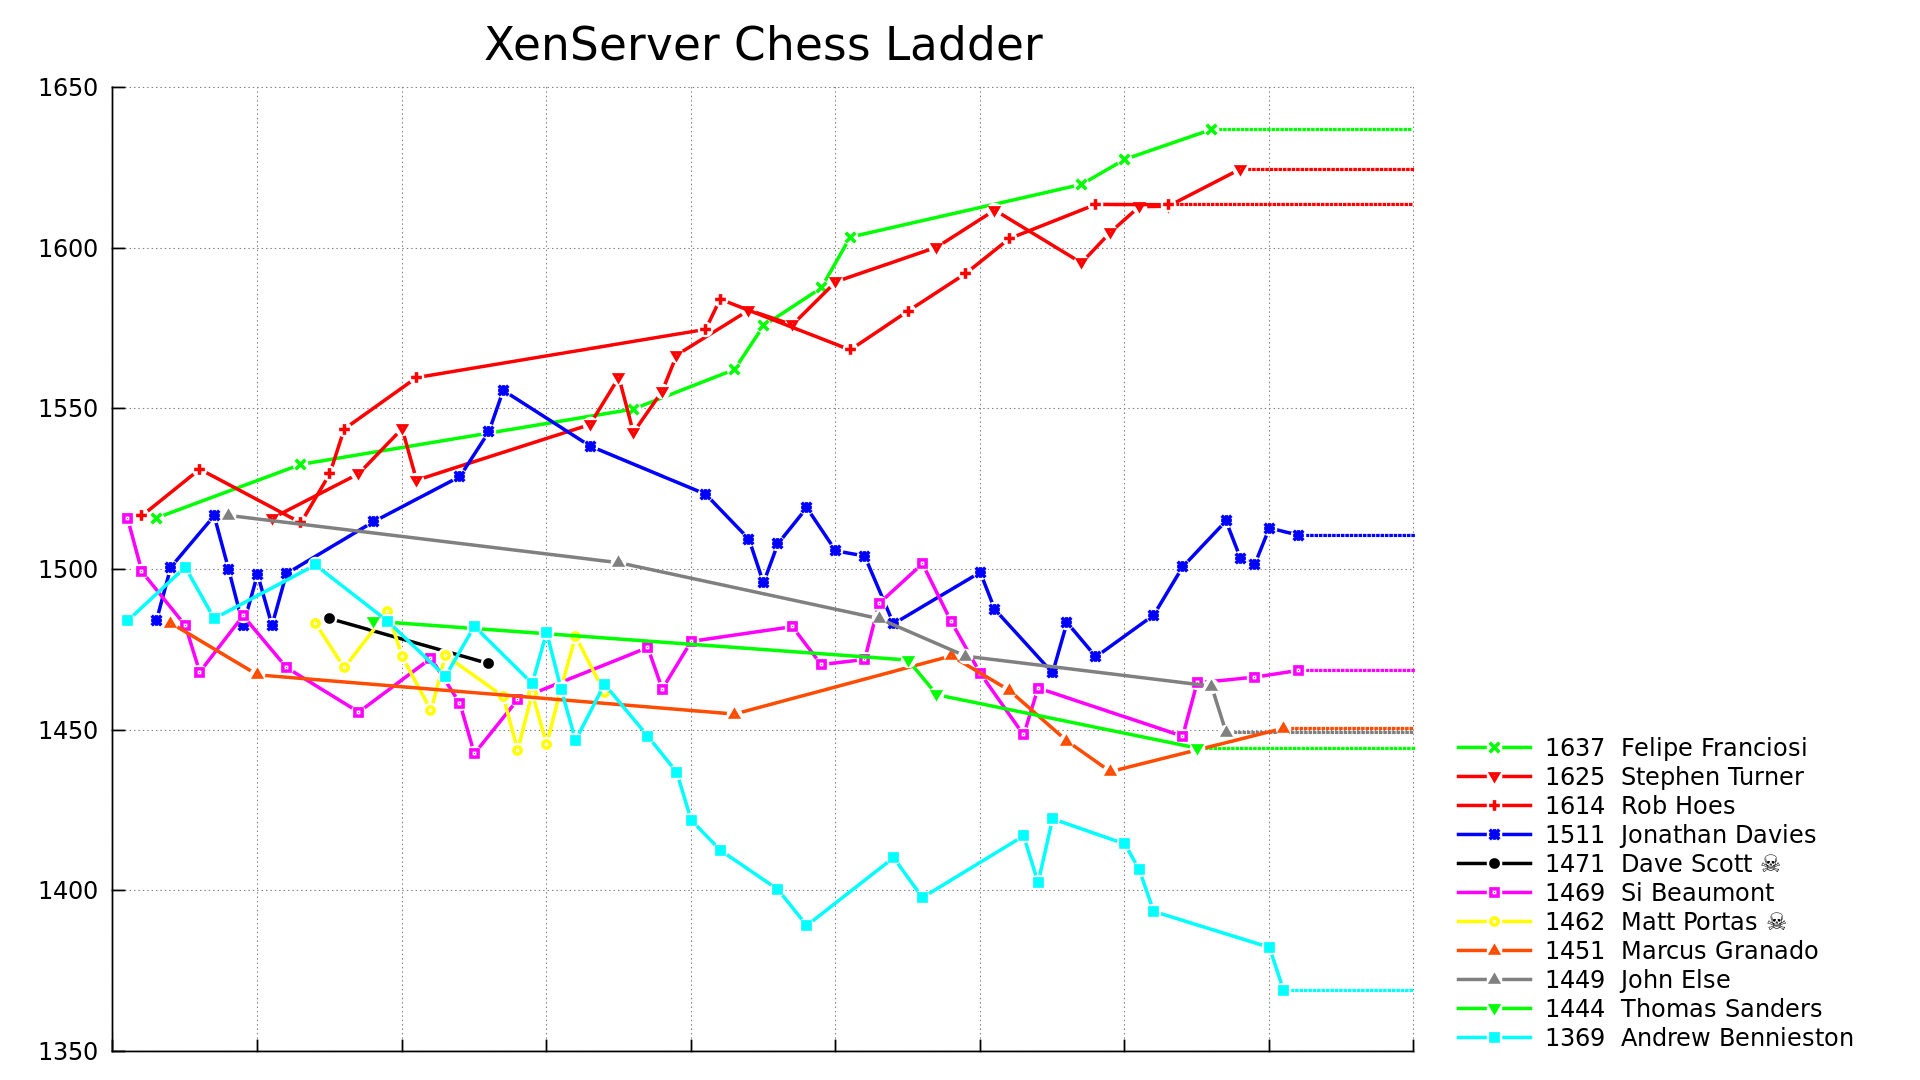
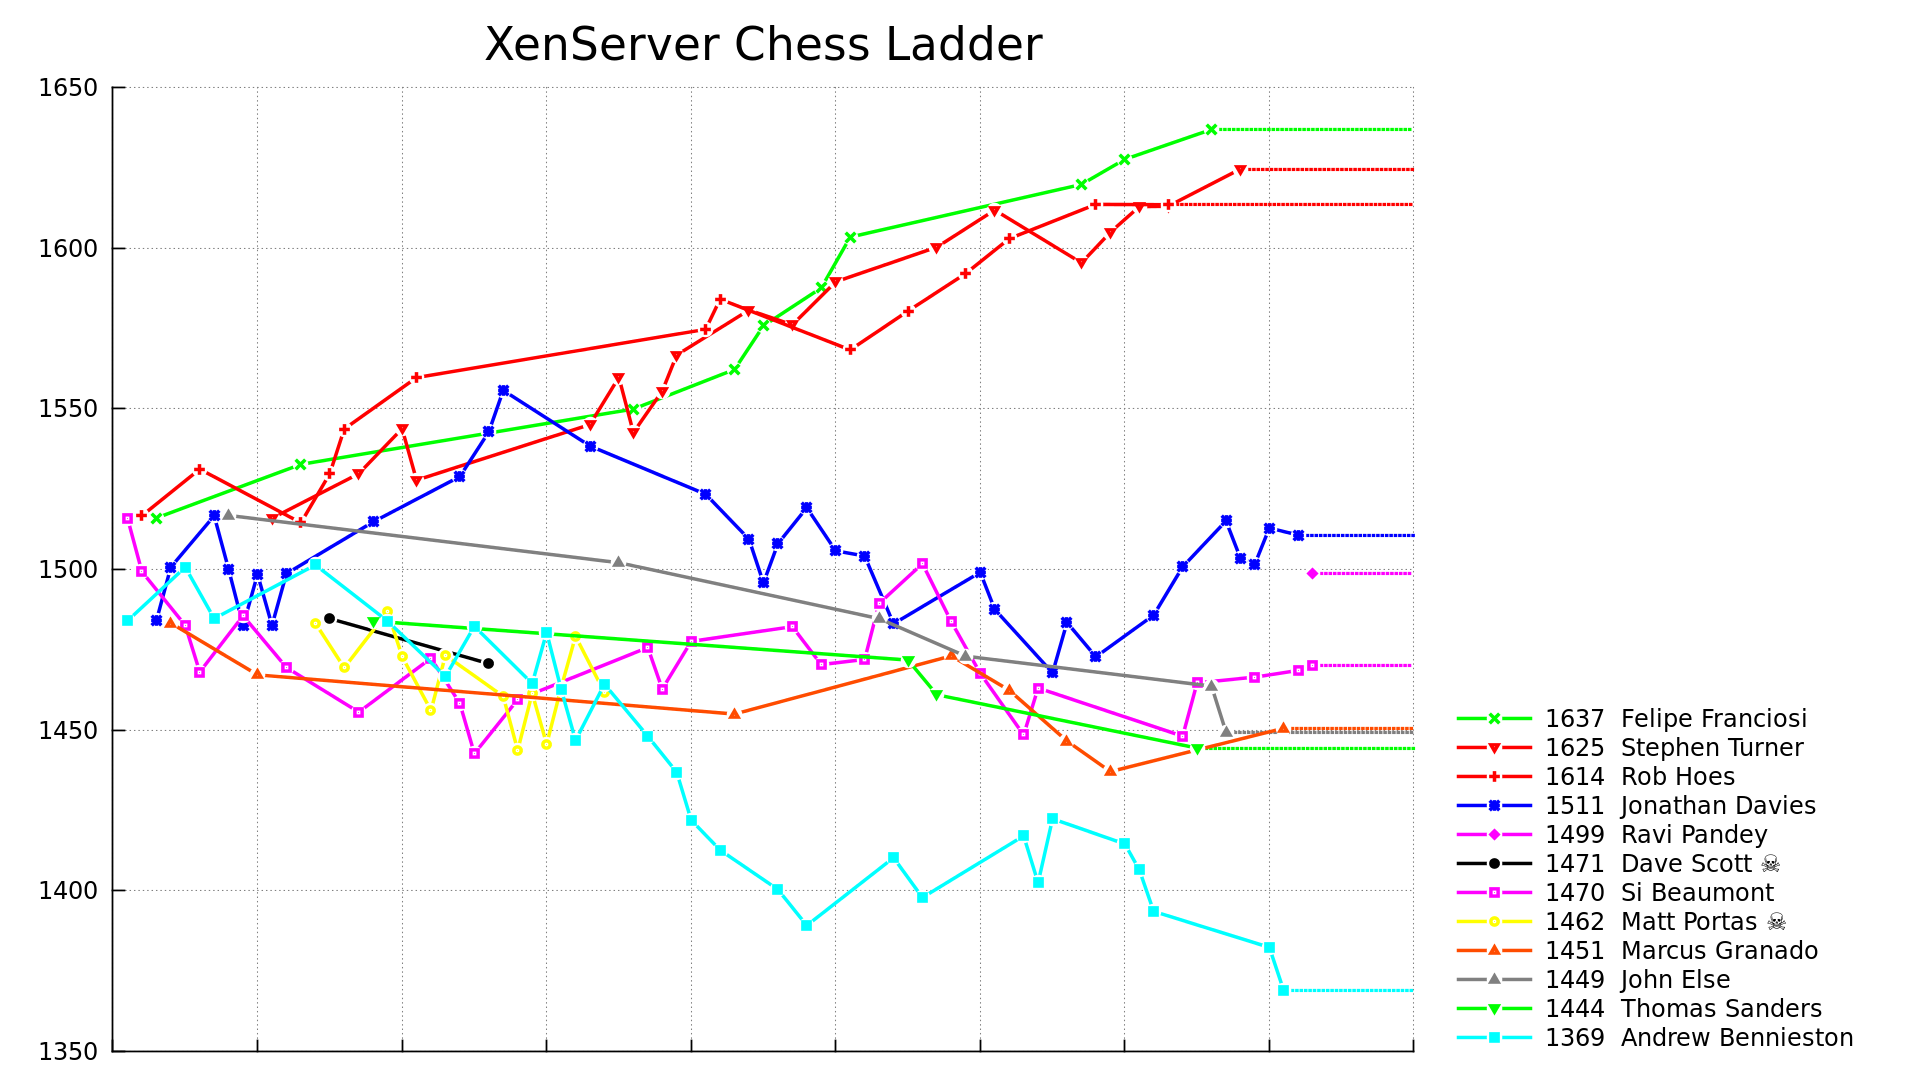
Travis build 164 pushed to gh-pages

diff --git a/index.md b/index.md
@@ -7,10 +7,10 @@ layout: default
      2.  Stephen Turner                     1625  (15 / 19)
      3.  Rob Hoes                           1614  (11.5 / 14)
      4.  Jonathan Davies                    1511  (17.5 / 33)
-     5.  Ravi Pandey                        1500  (0 / 0)
-     6.  Bill Briscombe                     1500  (0 / 0)
+     5.  Bill Briscombe                     1500  (0 / 0)
+     6.  Ravi Pandey                        1499  (0.5 / 1)
      7.  Dave Scott                      ☠  1471  (0 / 2)
-     8.  Si Beaumont                        1469  (12 / 27)
+     8.  Si Beaumont                        1470  (12.5 / 28)
      9.  Matt Portas                     ☠  1462  (5 / 13)
     10.  Marcus Granado                     1451  (2 / 8)
     11.  John Else                          1449  (1 / 6)
@@ -22,6 +22,7 @@ layout: default
           Stephen Turner - Bill Briscombe
         Felipe Franciosi - Andrew Bennieston
 ### Games
+    2014-03-07:          Si Beaumont - Ravi Pandey             0.5 - 0.5
     2014-03-07:      Jonathan Davies - Si Beaumont             0.5 - 0.5
     2014-03-03:       Marcus Granado - Andrew Bennieston         1 - 0
     2014-02-28:      Jonathan Davies - Andrew Bennieston         1 - 0
